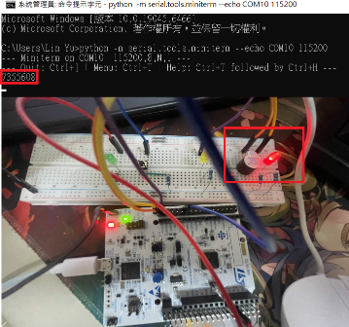
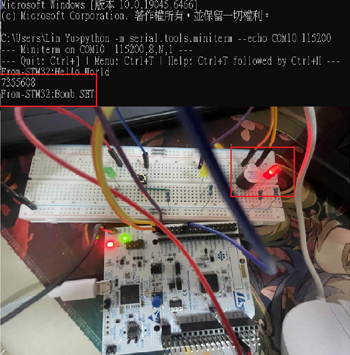
README Update

diff --git a/README.md b/README.md
@@ -28,14 +28,17 @@
 9.(CMD python -m serial.tools.miniterm --echo COM(你的port號) 115200)  
 ![MX示意圖](Picture/MX_Pin_Set.png)  
 ##    3.驗收條件與結果  
-1.打開CMD -> Pyserial 輸入7355608 | 紅燈、蜂鳴器呼吸閃爍並倒數 ☑  
-2.在Pyserial 輸入CUT | 黃燈亮起 ☑  
-3.按下按鈕 | 進入拆除動作 綠燈開始作為進度條亮起 ☑  
-4.拆除過程 | 如果有CUT 拆除時間為5秒，如果沒有為10秒 ☑  
-5.拆除完畢 | 綠燈常亮，紅燈及蜂鳴器停止 ☑  
-6.炸彈爆炸 | 綠燈關閉，紅燈及蜂鳴器常開 ☑  
-7.炸彈爆炸後按按鈕 | 不會有反應，炸彈爆炸後無法拆除 ☑  
-8.拆除炸彈後輸入7355608 | 會重新啟動炸彈 ☑  
+1.打開CMD -> Pyserial 執行程式時出現”Hello World” ☑    
+2.在Pyserial 輸入7355608 | 紅燈、蜂鳴器呼吸閃爍並倒數 ☑    
+3.在Pyserial 輸入CUT | 黃燈亮起 ☑    
+4.按下按鈕 | 進入拆除動作 綠燈開始作為進度條亮起 ☑    
+5.拆除過程 | 如果有CUT 拆除時間為5秒，如果沒有為10秒 ☑   
+6.拆除完畢 | 綠燈常亮，紅燈及蜂鳴器停止 ☑    
+7.拆除完畢 | CMD出現 “Defuse successful” ☑   
+8.炸彈爆炸 | 綠燈關閉，紅燈及蜂鳴器常開 ☑    
+9.炸彈爆炸 | CMD出現 “Booooom”☑   
+10.炸彈爆炸後按按鈕 | 不會有反應，炸彈爆炸後無法拆除 ☑   
+11.拆除炸彈後輸入7355608 | 會重新啟動炸彈 ☑   
 ![MX示意圖](Picture/Example.jpg)  
 ##    4.C4技術應用勾選表  
 ☑GPIO輸出 黃燈PC6 MODE=01 判斷是否有鉗子  
@@ -49,12 +52,13 @@
 ☐優先權與巢狀 無  
 ☑軟體去彈跳 按下按鈕拆炸彈時不會誤動作  
   
-☐UART 傳送	   
-☑UART 接收+環形緩衝 接收7355608 與 CUT  
-LPUART1 115200 8N1  
-☑Pyserial 在CMD裡面輸入文字傳送給STM32  
-python -m serial.tools.miniterm - - echo  
-COM10 115200  
+☑UART 傳送	 傳送Hello world、Bomb SET     
+Booom、 Defuse successful來表達目前C4的狀態 	    
+☑UART 接收+環形緩衝 接收7355608 與 CUT    
+LPUART1 115200 8N1     
+☑Pyserial 在CMD裡面輸入文字傳送給STM32    
+python -m serial.tools.miniterm - - echo   
+COM10 115200    
   
 ☐Timer 定時中斷  
 ☑PWM timer3 PSC169 ARR999 1000Hz  
@@ -66,8 +70,8 @@ TIM3_CH3 PC8 紅燈 安裝炸彈後閃爍使用
 TIM3_CH4 PC9 蜂鳴器 安裝炸彈後鳴叫使用  
 GPIO_EXTI11 PA11 按鈕 拆除炸彈時使用  
 GPIO_Output PC6 黃燈 判斷是否擁有CUT  
-LPUART1_TX_STLINKV3E_VCP_RX PA2 接收給STM32 主機傳輸訊息用  
-LPUART1_TX_STLINKV3E_VCP_TX PA2 傳輸給主機 主機接收訊息用  
+LPUART1_TX_STLINKV3E_VCP_RX PA2 接收給STM32 主機傳輸訊息用    
+LPUART1_TX_STLINKV3E_VCP_TX PA2 傳輸給主機 主機接收訊息用    
 ##    6.建置與執行  
 **開發環境**：STM32CubeIDE  
 **燒錄步驟**：開啟專案 → 點擊 Build (鎚子圖示) → 點擊 Run / Debug 燒錄至 NUCLEO-G474RE。  
@@ -77,7 +81,17 @@ LPUART1_TX_STLINKV3E_VCP_TX PA2 傳輸給主機 主機接收訊息用
     * `7355608`：啟動拆彈倒數與呼吸燈、蜂鳴器。  
     * `CUT`：執行剪線加速指令。  
 ##    7.程式結構  
-(考試那天記得做)  
+
+
+
+
+
+(考試那天記得做)  ---------------------------------------
+
+
+
+
+
 ##    8.實作照片與講解  
 ###    8-1.MX設定  
 8-1-1.打開STM32CubeMX 設定以下腳位：  
@@ -115,16 +129,21 @@ Counter Period 設定為999
 黃框為GPIO_Output，提供給麵包版上的黃燈使用  
 ![step8-2-3](Picture/Execute8.png)  
 ###    8-3實機操作  
-8-3-1.將程式燒錄進STM32後，打開電腦的“裝置管理員”  
+8-3-1.將程式燒錄進STM32前，打開電腦的“裝置管理員”  
 查看下方的連接埠，確認自己的STM32在COM幾(此裝置為COM10)  
 ![step8-3-1](Picture/Execute9.png)  
 8-3-2.打開“CMD”後輸入以下字元用來搭建通訊連接  
 “python –m serial.tools.miniterm --echo COM10 115200”  
 ![step8-3-2](Picture/Execute10.png)  
-8-3-3.在CMD內輸入7355608後 可以看見紅燈及蜂鳴器開始閃爍  
-到計時，如果到時間結束還是沒有拆除成功，   
-紅燈及蜂鳴器會呈現常亮，不會再進行呼吸閃爍   
+8-3-2-補充.程式執行後，一開始會向 CMD 傳送“Hello World”     
+表示目前已經在程式內    
+![step8-3-2](Picture/Execute10-1.png)    
+8-3-3.在CMD內輸入7355608後 可以看見紅燈及蜂鳴器開始閃爍   
+到計時，如果到時間結束還是沒有拆除成功，     
+紅燈及蜂鳴器會呈現常亮，不會再進行呼吸閃爍     
 ![step8-3-3](Picture/Execute11.png)   
+8-3-3-補充.如果一段時間內沒有拆除炸彈，則紅燈及蜂鳴器停止閃爍直接常亮，並且往 CMD傳送“Boooooom”      
+![step8-3-3](Picture/Execute11-1.png)   
 8-3-4.在CMD內輸入CUT後 可以看見黃燈亮起，判斷是否有鉗子   
 如果有可以讓拆除時間減少5秒   
 ![step8-3-4](Picture/Execute12.png)    
@@ -132,8 +151,18 @@ Counter Period 設定為999
 (黃燈亮起時拆除時間為5秒，反之10秒)   
 ![step8-3-5](Picture/Execute13.png)   
 8-3-6.拆除完畢後，紅燈及蜂鳴器停止運作，綠燈常亮   
+並且向CMD傳送“Defuse Successful”
 ![step8-3-6](Picture/Execute14.png)   
 ##    9.AI使用說明   
+
+
+
+
+當天加入------------------------------------------------------   
+
+
+
 ##    10.已知限制  
-因為本次實作與實際上依然相差甚大，例如C4炸彈 主要成分為RDX旋風炸藥 、 而我們需要透過電流讓雷管通電，引爆內部的初級炸藥
-而雷管爆炸釋放的高溫與高壓衝擊波，
+因為本次實作與實際上依然相差甚大，例如C4炸彈 主要成分為RDX旋風炸藥 、 而我們需要透過電流讓雷管通電，引爆內部的初級炸藥    
+而雷管爆炸釋放的高溫與高壓衝擊波，這個能量會瞬間激化C4核心的RDX，引發連鎖反應產生爆炸。
+因此我們要額外增加一個電雷管、起爆器，當倒數完畢後啟動起爆器，進而引爆C4。    
